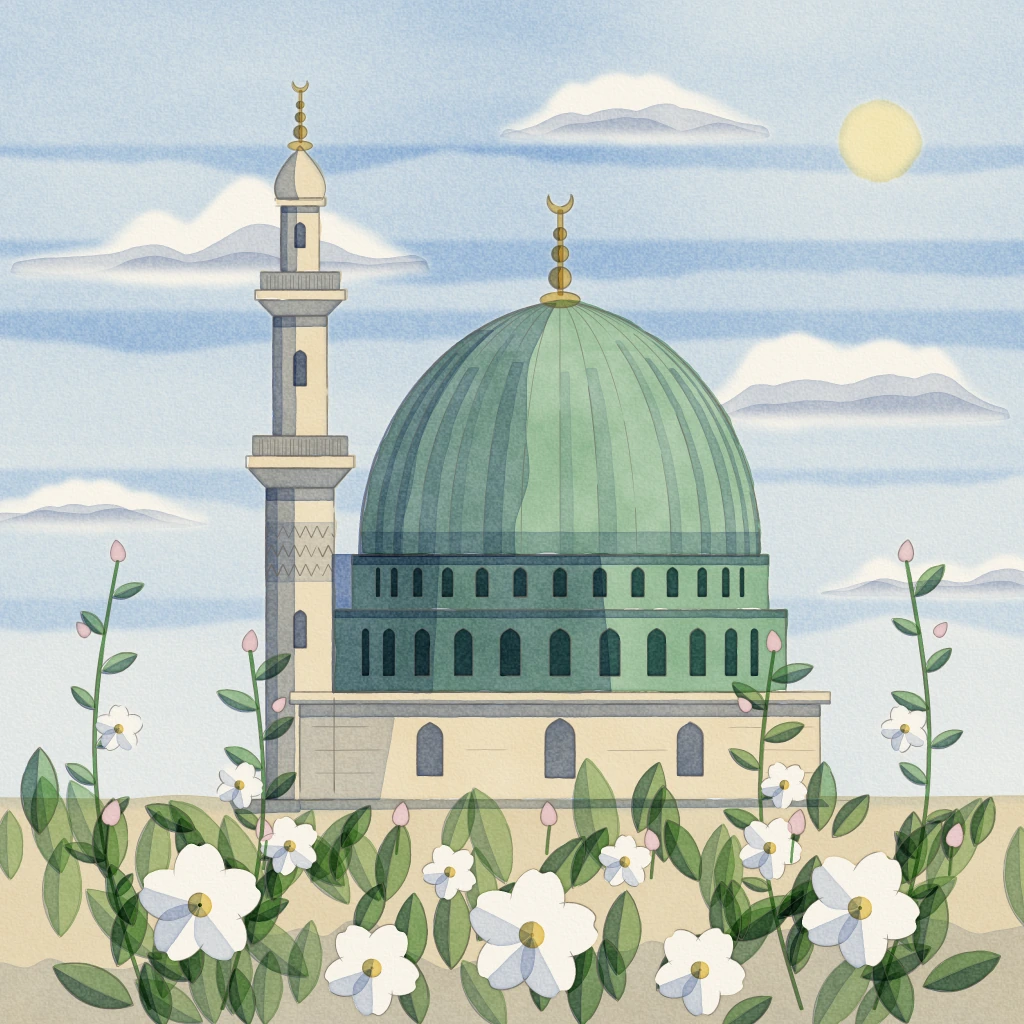
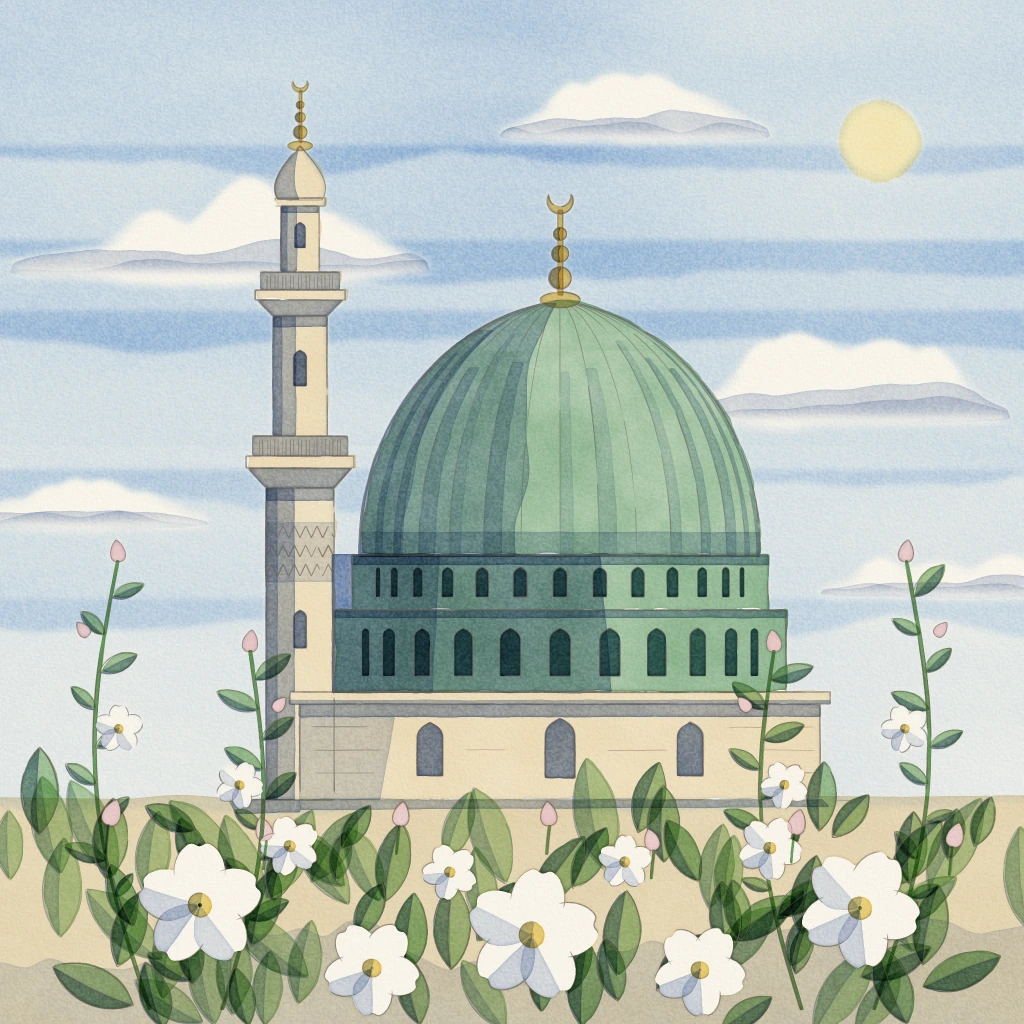
Atölye: altıncı tur son denetimi: S-211–S-220 düzeltmeleri
Claude-Session: https://claude.ai/code/session_01Q8CfoBGMPN7gfLWQYpMs1J

diff --git a/atolye/stiller/S-217-beyaz-murekkep-konturlu-suluboya/ornek.html b/atolye/stiller/S-217-beyaz-murekkep-konturlu-suluboya/ornek.html
@@ -829,11 +829,11 @@ const gunes = { x: 880, y: 140 };
 // bulutlar boş bırakılmaz: lavi bulutun içinde ıslakken temiz, nemli fırçayla açılır (soluk mavi kalır), altına
 // açık leylak-gri gölge sürülür; bulutun biçimini sonradan beyaz mürekkep çizer
 const bulutlar = [
-  bulutKumesi(60, 400, 244, 84, 1711, { puruz: 0.22, lobBoy: 90, amp: 1.7, tabanDalga: 0.13 }),
-  bulutKumesi(392, 612, 120, 52, 1712, { puruz: 0.22, lobBoy: 80, amp: 1.5, tabanDalga: 0.13 }),
-  bulutKumesi(700, 1010, 372, 80, 1713, { puruz: 0.22, lobBoy: 92, amp: 1.7, tabanDalga: 0.13 }),
-  bulutKumesi(-70, 200, 486, 44, 1714, { puruz: 0.2, lobBoy: 70, amp: 1.3, tabanDalga: 0.12 }),
-  bulutKumesi(800, 1080, 560, 40, 1715, { puruz: 0.2, lobBoy: 70, amp: 1.3, tabanDalga: 0.12 }),
+  bulutKumesi(60, 400, 244, 84, 1711, { puruz: 0.15, lobBoy: 90, amp: 1.7, tabanDalga: 0.13 }),
+  bulutKumesi(392, 612, 120, 52, 1712, { puruz: 0.15, lobBoy: 80, amp: 1.5, tabanDalga: 0.13 }),
+  bulutKumesi(700, 1010, 372, 80, 1713, { puruz: 0.15, lobBoy: 92, amp: 1.7, tabanDalga: 0.13 }),
+  bulutKumesi(-70, 200, 486, 44, 1714, { puruz: 0.14, lobBoy: 70, amp: 1.3, tabanDalga: 0.12 }),
+  bulutKumesi(800, 1080, 560, 40, 1715, { puruz: 0.14, lobBoy: 70, amp: 1.3, tabanDalga: 0.12 }),
 ];
 const bulutSekil = birlesik(bulutlar.map((b) => b.sk));
 const gunesDisk = sekilPoli(elips(gunes.x, gunes.y, 41, 40, 0.3, 64), 1.8, 0.06, 1);
@@ -1179,7 +1179,18 @@ bulutlar.forEach((b, bi) => {
     const m = Math.floor(ust.length * (0.35 + 0.6 * (k + rM() * 0.6) / adet));
     const L = 14 + Math.floor(rM() * 20);
     const parca = ust.slice(Math.max(0, m - L), Math.min(ust.length, m + L));
-    if (parca.length > 6) murekkep(parca, { w: 1.6 + rM() * 0.7, sonSivri: 12, basSivri: 6, kir: false });
+    // tümsekler arasındaki dik inişte kalem kalkar: parçayı orada böl, en uzun kesintisiz bölümü çiz
+    let enUzun = [];
+    let cur = [];
+    parca.forEach((q, j) => {
+      if (j && Math.abs(q[1] - parca[j - 1][1]) > 3) cur = [];
+      cur.push(q);
+      if (cur.length > enUzun.length) enUzun = cur;
+    });
+    if (parca.length > 6) {
+      const w = 1.6 + rM() * 0.7;
+      if (enUzun.length > 6) murekkep(enUzun, { w, sonSivri: 12, basSivri: 6, kir: false });
+    }
   }
 });
 

diff --git a/atolye/stiller/S-219-topografik-renkli-cizim/ornek.html b/atolye/stiller/S-219-topografik-renkli-cizim/ornek.html
@@ -742,11 +742,13 @@ function bulutBandi(x0, x1, taban, h, tohum) {
     alt.push([x, taban + h * 0.12 * Math.pow(Math.sin(Math.PI * t), 0.5) * (0.6 + 0.8 * nz.n(t * 6 + 20, 4))]);
   }
   const pts = ust.concat(alt.slice().reverse());
+  const ortYuk = yuk.reduce((a, v) => a + v, 0) / yuk.length;
   function golge(oran, ek) {
     const g = [];
     for (let i = 0; i <= N; i++) {
       const t = i / N;
-      const kes = taban - yuk[i] * oran + h * 0.12 * (nz.n(t * 6 + ek, 3 + ek) - 0.5) * 2;
+      // gölgenin üst sınırı tümseklerin tepesini izlemez (sırt gibi görünmesin): ortalama yüksekliğe yakın, dalgalı
+      const kes = taban - (0.3 * yuk[i] + 0.7 * ortYuk * Math.pow(Math.sin(Math.PI * t), 0.3)) * oran + h * 0.12 * (nz.n(t * 6 + ek, 3 + ek) - 0.5) * 2;
       g.push([ust[i][0], Math.max(ust[i][1], Math.min(alt[i][1] - 0.5, kes))]);
     }
     return g.concat(alt.slice().reverse());
